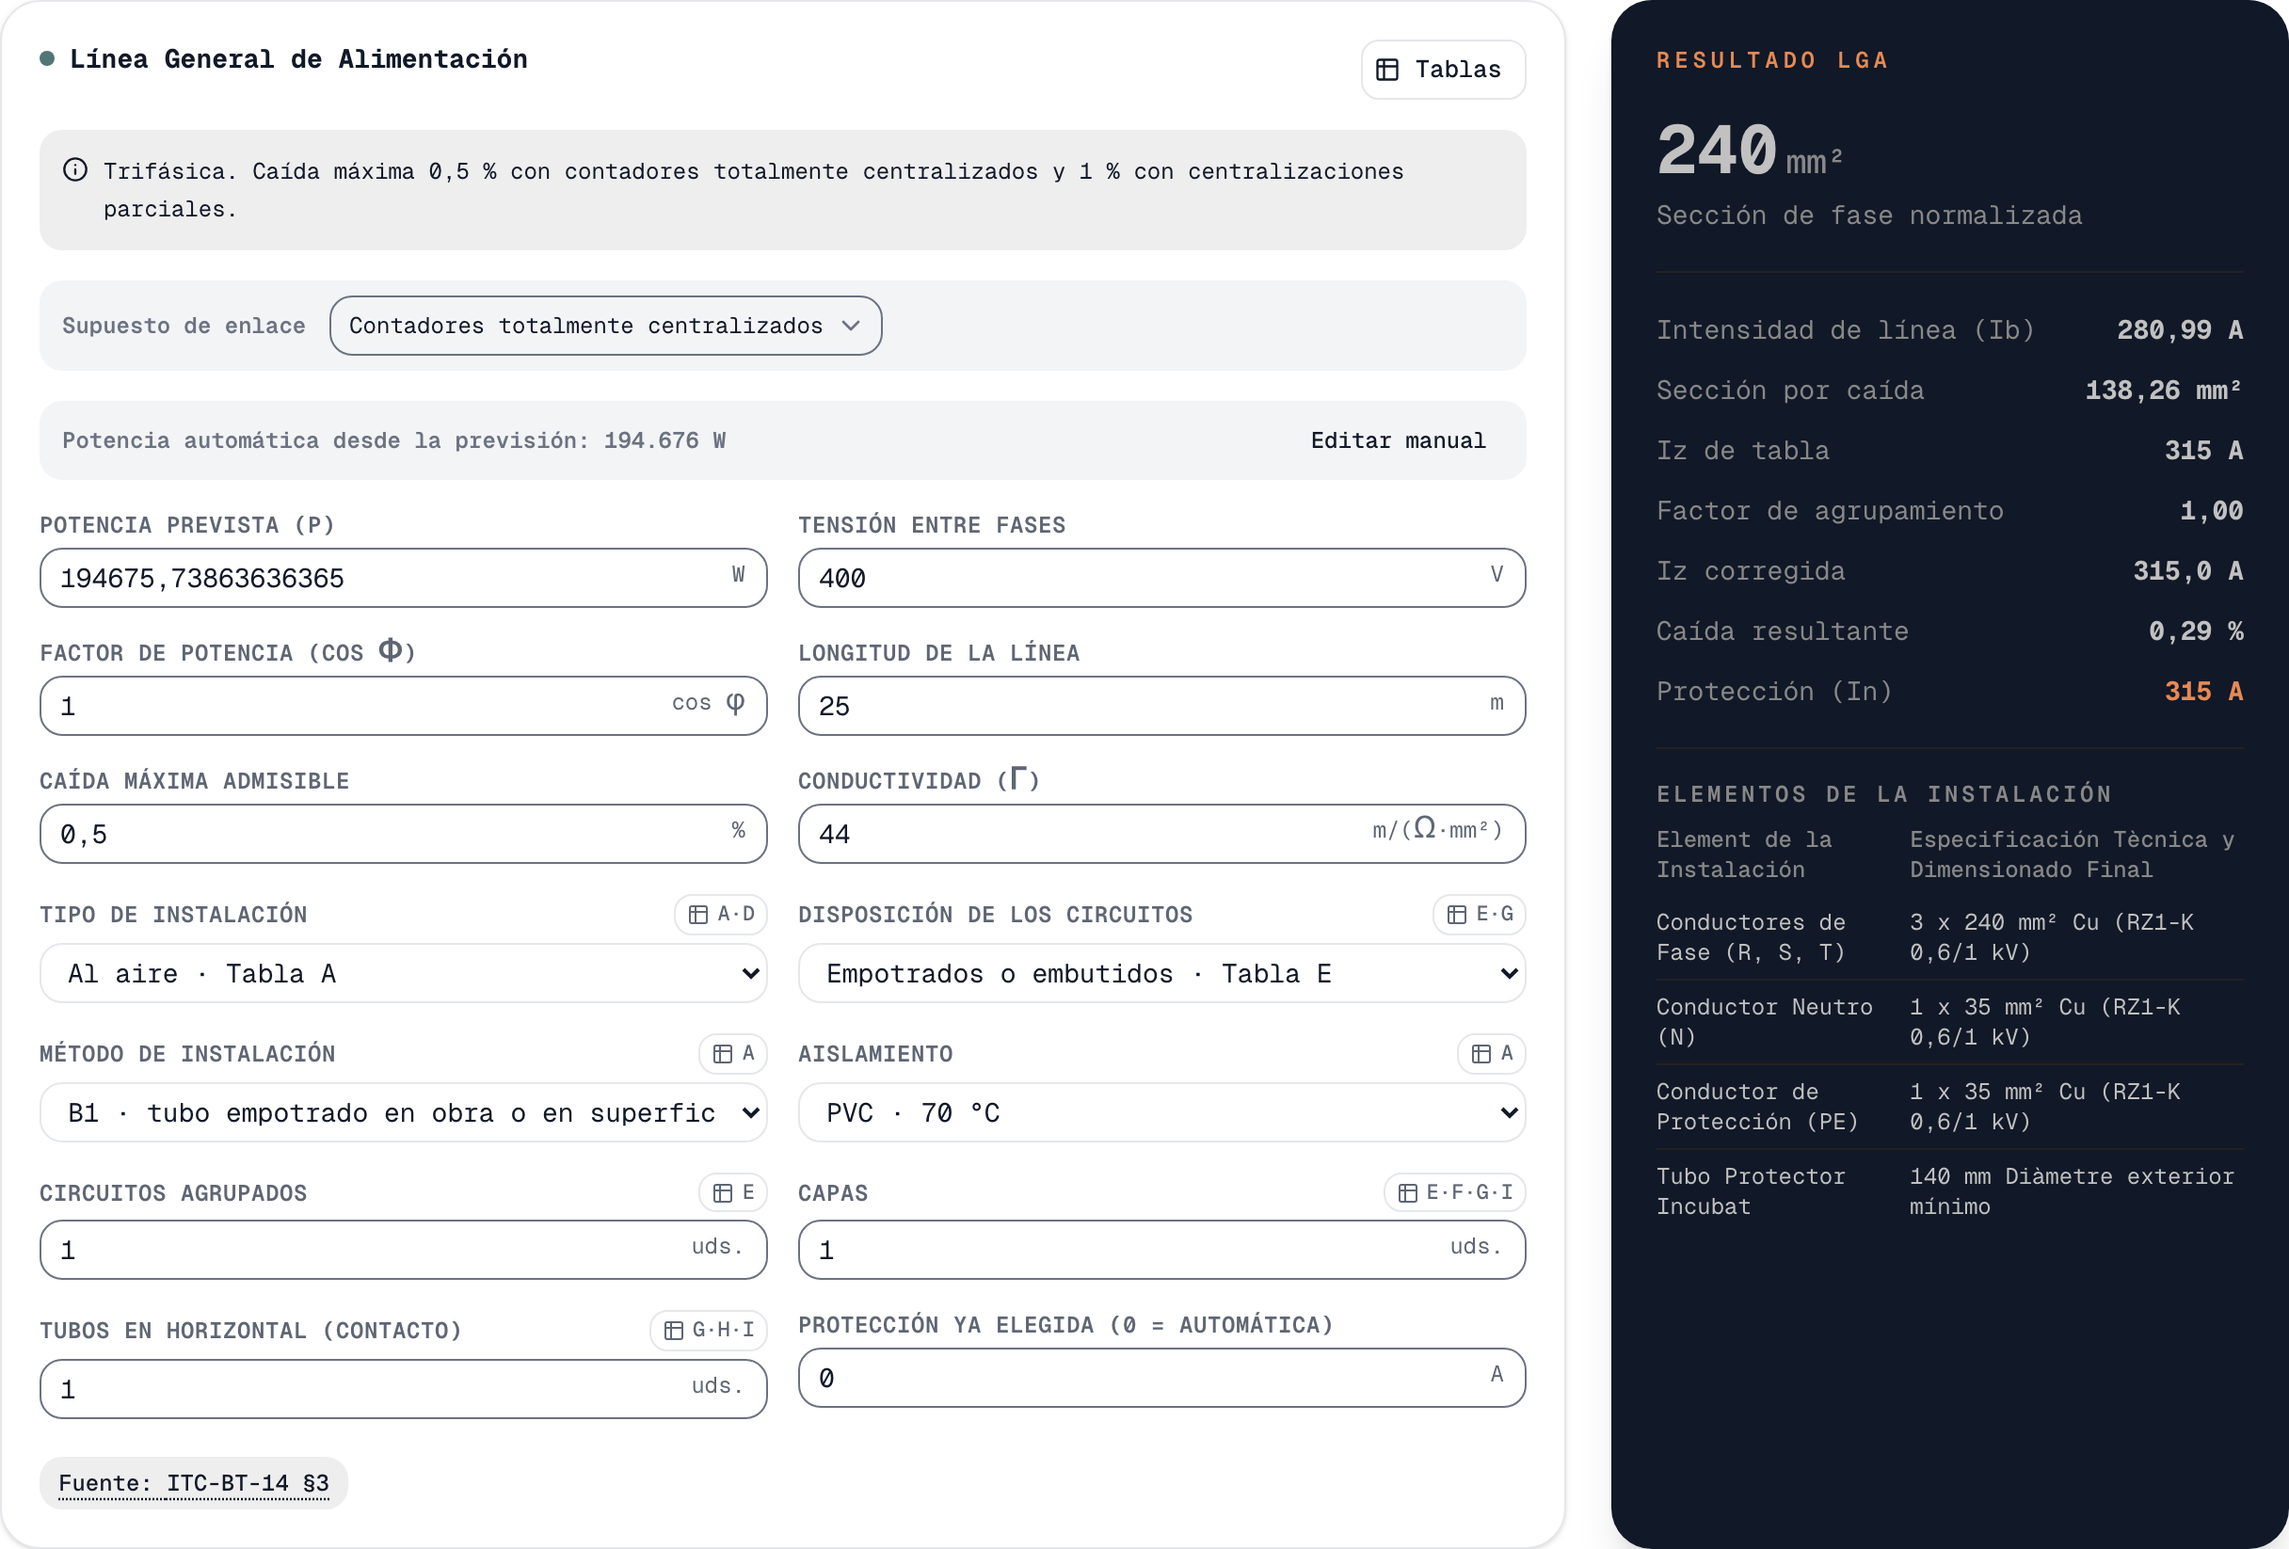
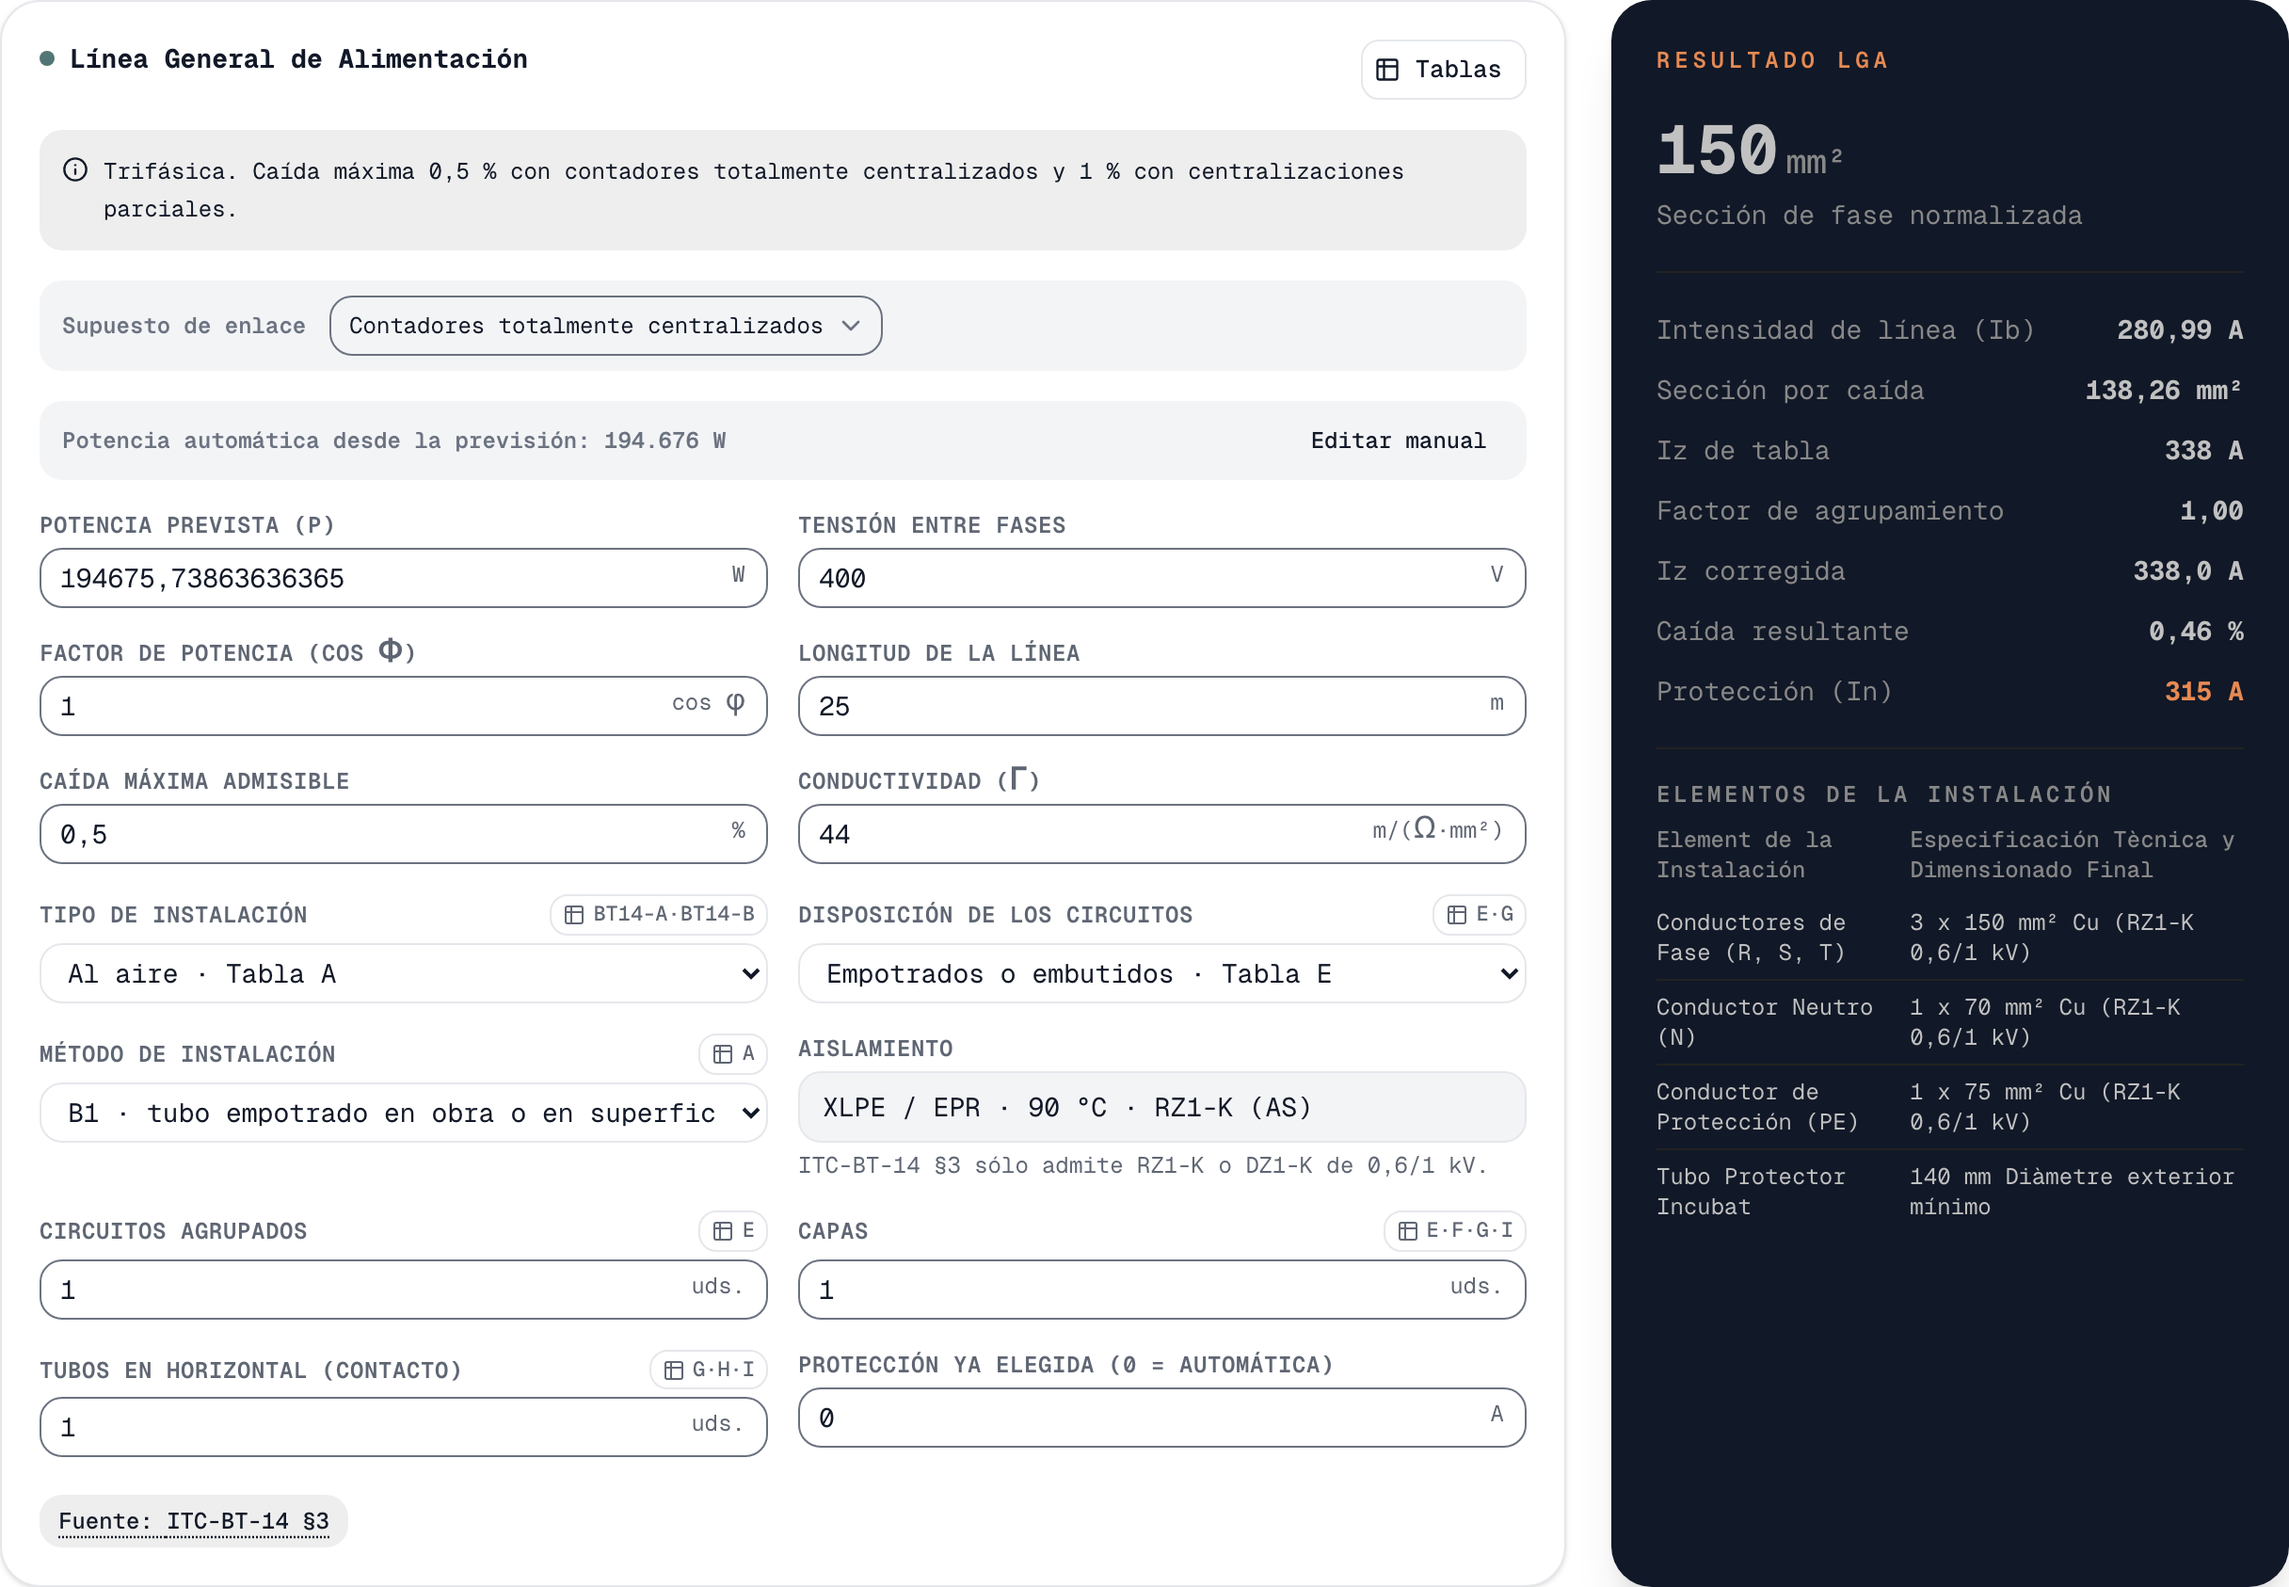
docs(help): recapture the guide screenshots
The LGA card now shows the insulation as a fixed XLPE fact and opens the
BT-14 tables, and the dialog leads with the guide tables, so four of the
eleven captures no longer matched the product. Regenerated with
scripts/capture-help-shots.mjs against a production build; the other
seven came out byte identical.

The LGA caption said 240 mm2 and 0,29 %, which the corrected sizing no
longer produces; it now quotes the render it sits next to.

diff --git a/components/help-doc.tsx b/components/help-doc.tsx
@@ -393,8 +393,8 @@ export function HelpDoc() {
                 ]} />
                 <Shot
                   id="lga"
-                  alt="Pestaña de la Línea General de Alimentación con todos sus campos a la izquierda y el panel de resultado a la derecha, con la sección de 240 milímetros cuadrados, la intensidad, la caída y la protección"
-                  caption="LGA con el edificio del ejemplo: 240 mm² de fase, protección de 315 A y una caída resultante del 0,29 % frente al 0,5 % permitido."
+                  alt="Pestaña de la Línea General de Alimentación con todos sus campos a la izquierda y el panel de resultado a la derecha, con la sección de 150 milímetros cuadrados, la intensidad, la caída y la protección"
+                  caption="LGA con el edificio del ejemplo: 150 mm² de fase, neutro de 70 mm² según la tabla 1, protección de 315 A y una caída del 0,46 % frente al 0,5 % permitido."
                 />
                 <p>
                   Cada campo que depende de una tabla lleva su botón con la referencia: <code>BT14-A·BT14-B</code> en el tipo de instalación, <code>E·G</code> en la disposición de circuitos y <code>G·H·I</code> en los tubos en contacto. El botón <code>Tablas</code> de la cabecera de la tarjeta abre las tablas de la ITC-BT-14, de la ITC-BT-15 y las de agrupamiento de la ITC-BT-19.
